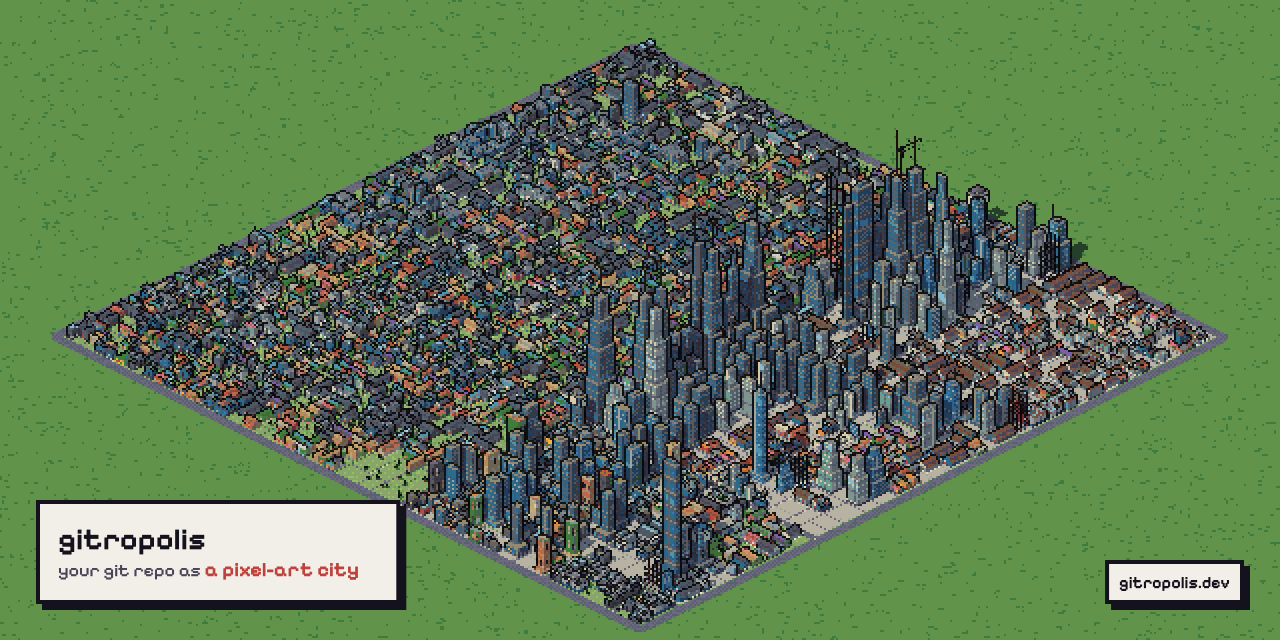
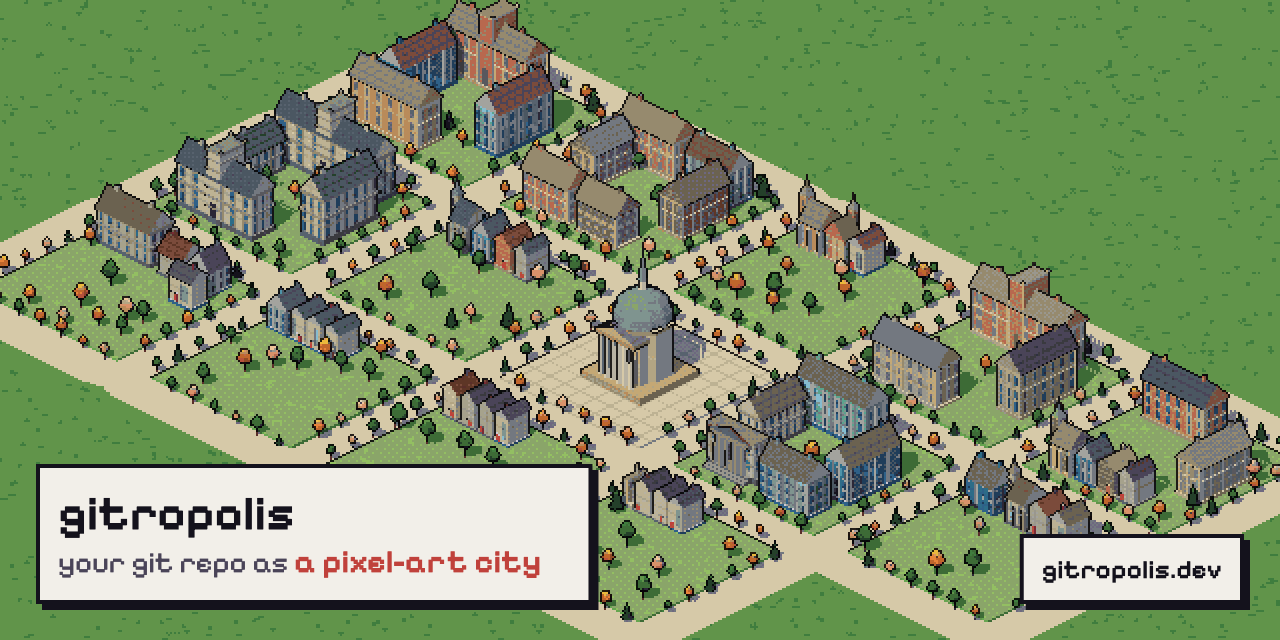
Social preview: the university town, with bigger type
A calmer, clearer city than vite's dense grid reads better at the few hundred
pixels a link preview gets, and the name tag is larger to match.

diff --git a/web/card.js b/web/card.js
@@ -75,7 +75,7 @@ function layout(g, format, info, { W, H, full, scale }) {
   let bands, paint;
   if (full) {
     // full bleed: the city is the picture, with a small name tag in one corner and the address in the other
-    const z = n => Math.round(n * (scale || (format === 'story' ? 1.7 : format === 'square' ? 1.25 : 1)));
+    const z = n => Math.round(n * (scale || (format === 'story' ? 1.7 : format === 'square' ? 1.25 : format === 'social' ? 1.6 : 1)));
     const name = info.owner ? `${info.owner}/${info.repo}` : info.repo;
     const np = fit(name, z(30), W * 0.6), tagW = Math.max(width(name, np, 600), width(`${lead}${info.phrase}`, z(20), 600)) + P * 2;
     const tagH = P * 2 + np + z(30), urlP = z(16), urlW = width(info.url, urlP, 600) + z(14) * 2, urlH = urlP + z(14) * 2;
